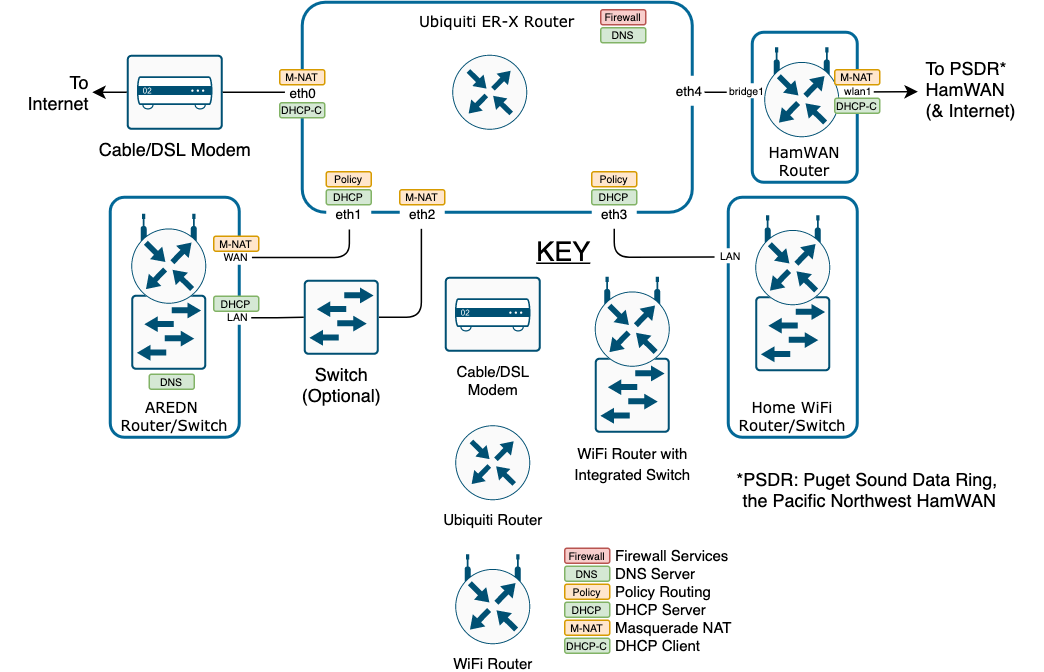
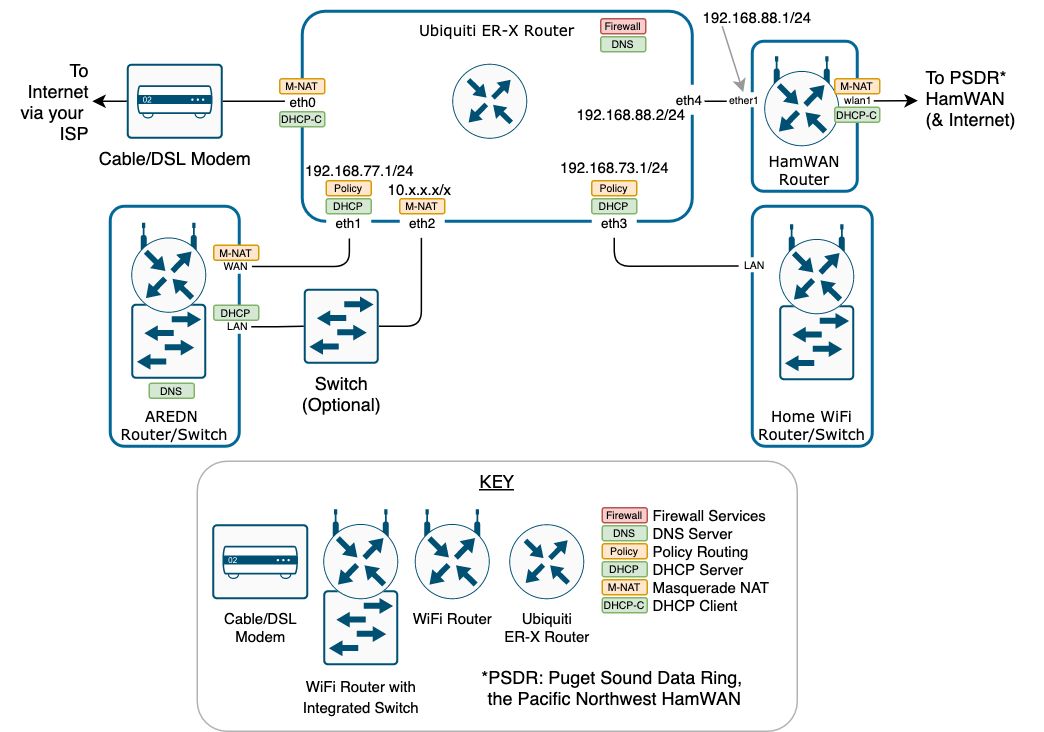
Update integration README

diff --git a/hamwan-arden-home-README.md b/hamwan-arden-home-README.md
@@ -1,6 +1,6 @@
 # Integrating AREDN and HamWAN with your Home Network
 
-VERSION: 20200816
+VERSION: 20210614
 
 AUTHOR:  Steve Magnuson AG7GN
 
@@ -24,11 +24,11 @@ This is a long and somewhat complicated procedure.  To increase your chances of 
 - [Ubiquiti ER-X router](https://www.ui.com/edgemax/edgerouter-x/). Other Ubiquiti EdgeRouters will also work, but may require a more complicated configuration because the number of physical ports varies from model to model. Some models may require an external VLAN-aware ("managed") switch.
 - Garden-variety home router + switch + access point device (likely your current router).
 - Internet service via a cable or DSL modem.
-Note that I'm talking about a MODEM here, not an integrated modem and router provided by your ISP.  We want the Ubiquiti ER-X to do the routing and other related functions. It is possible to integrate an ISP-provided router into this design, but it's more complicated than what I describe here.  Do yourself a favor (and save some money) and return the ISP's router and get a cable modem if you can. Customers who get phone service from the cable company may be stuck with the ISP's router (sorry!).
+Note that I'm talking about a MODEM here, not an integrated modem and router provided by your ISP or perhaps you own.  We want the Ubiquiti ER-X to do the routing and other related functions. It is possible to integrate an ISP-provided router into this design, but it's more complicated than what I describe here.  Do yourself a favor (and save some money) and return the ISP's router and get a plain cable modem if you can. Customers who get phone service from the cable company may be stuck with the ISP's router (sorry!).
 - Familiarity with configuring your home router, HamWAN and AREDN equipment.
 - Cat5 or better ethernet cables of suitable length.
 - PC with a wired ethernet port, and you know how to configure the ethernet port on your PC with a static IP address or an automatically assigned IP (DHCP) address. We'll be doing both in this procedure.
-- If the PC you're going to be using is running Windows, I recommend installing the free SSH application called [Putty](https://www.chiark.greenend.org.uk/~sgtatham/putty/latest.html).  If your PC is running Linux or is a Mac, then SSH is available in the Terminal.
+- If the PC you're going to be using is running Windows, I recommend installing the free SSH client application called [Putty](https://www.chiark.greenend.org.uk/~sgtatham/putty/latest.html). If your PC is running Linux or is a Mac, then SSH is available in the Terminal.
 
 ---
 
@@ -55,7 +55,7 @@ I'm making these assumptions about your current network:
 - You have one or both of these:
 	- A working HamWAN router that is connected to the HamWAN network per the [recommended configuration](http://hamwan.org/Standards/Network%20Engineering/Client%20Node%20Configuration.html), but it is not connected to your home network.
 	- A working AREDN router that is not connected to your home network. See the [AREDN Getting Started Guide](https://arednmesh.readthedocs.io/en/latest/arednGettingStarted/aredn_overview.html) to install the AREDN image on your hardware.
-- You have a new Ubiquiti ER-X that is still at factory default settings. You can [reset it to factory defaults](https://help.ubnt.com/hc/en-us/articles/205202620-EdgeRouter-Reset-to-Factory-Defaults) if necessary.
+- You have a new Ubiquiti ER-X that is still at factory default settings. [Reset it to factory defaults](https://help.ubnt.com/hc/en-us/articles/205202620-EdgeRouter-Reset-to-Factory-Defaults) if necessary.
 
 ---
 
@@ -125,7 +125,7 @@ ER-X `eth4`: `192.168.88.2/24`
 > - Write this MAC address down. You *might* need it later. When you write it down, use the form of the address containing colons. Example: If your MAC is `0026b0f3ecd0`, write  `00:26:b0:f3:ec:d0`.
 > - Close your router's web interface.
 
-### Configure ER-X Router - Part 1
+### A. Configure ER-X Router - Part 1
 
 1. It's likely that when your ER-X router arrives, it'll have an older version of firmware. Using a PC with Internet access, visit the EdgeRouter [downloads](https://www.ui.com/download/edgemax) page. You'll see a lot of files on that page.  We're interested in the most recent version for the `EdgeRouter ER-X/ER-X-SFP/EP-R6/ER-10X` models.  As of this writing, the latest version is `v2.0.8-hotfix.1`. You may see more than one firmware file for the ER-X listed.  Look for the most recent version. Click the corresponding download link and save it to your PC. Use this same PC to configure the ER-X in the following steps, or transfer the downloaded firmware file to the PC you'll be using in the following steps.
 
@@ -295,7 +295,7 @@ ER-X `eth4`: `192.168.88.2/24`
 
 1.	Make sure your PC's ethernet port is set to automatically obtain an IP address.  It should already be set this way.
 		
-### Reconfigure your Current WiFi/Router/Switch (WRS)
+### B. Reconfigure your Current WiFi/Router/Switch (WRS)
 
 *These steps will disable Internet at your QTH!*  
 
@@ -321,7 +321,7 @@ Every WRS manufacturer has a different procedure for what we're about to do, so 
 1. Reboot your WRS.
 1. Disconnect your PC from the WRS.
 
-### Test Home LAN Internet Connectivity
+### C. Test Home LAN Internet Connectivity
 
 Now we'll test your home LAN connection through the ER-X. 
 
@@ -333,7 +333,7 @@ Now we'll test your home LAN connection through the ER-X.
 	
 	- *Don't move on to the next steps until you've verified Internet connectivity!* 		  Troubleshoot as needed to restore Internet service.
 
-### Configure the AREDN Router
+### D. Configure the AREDN Router
 
 Your PC should still be in "Configure IP address automatically" mode at this stage.
 
@@ -399,7 +399,7 @@ Your PC should still be in "Configure IP address automatically" mode at this sta
 
 	- *Don't move on to the next steps until you've verified Internet connectivity!* 		  Troubleshoot as needed to restore Internet service.
 	
-### Configure the HamWAN router
+### E. Configure the HamWAN router
 
 Only 2 additional commands are needed in the HamWAN router. These commands tell the HamWAN router about the IP address subnets that we're using on our home network and our AREDN router's WAN and that those subnets are reachable via the ER-X's `eth4` port, which has IP address `192.168.88.2`.
 
@@ -421,7 +421,7 @@ Only 2 additional commands are needed in the HamWAN router. These commands tell 
 1. Unplug your PC from your HamWAN router's ethernet port and leave your PC disconnected for now.
 1. Connect an ethernet cable between the ER-X `eth4` port and the ethernet port of your HamWAN router.
 
-### Configure ER-X Router - Part 2
+### F. Configure ER-X Router - Part 2
 
 We'll add to the DNS server configuration to enable name resolution of AREDN devices and we'll enable masquerade NAT on the AREDN LAN interface. Enabling masquerade NAT will give the AREDN router the illusion that the packets are coming from a device on it's own LAN when in reality they are coming from a device on your home network. The NAT feature plus AREDN name resolution will allow any of your home LAN devices to access any AREDN devices by name or IP address.
 
@@ -457,7 +457,7 @@ Remember that table you made in the [Configure AREDN Router - Part 1](#configure
 
 Standard IP routing uses the destination IP address as the criteria to determine where to send IP packets. The router maintains a table of destination IP networks for this purpose.  This is called the main routing table. We're going to implement Policy Routing so we can use other criteria to tell the router where to send certain packets.  We'll create a new routing table that our policies can use to forward packets.  Policies can selectively use either the main table or our new table depending on the criteria we define.
 
-1. Back in the ER-X CLI, set up a new routing table (we'll call it table `88`) just for HamWAN. `0.0.0.0/0` means "all networks". This is called a [default route](https://en.wikipedia.org/wiki/Default_route).  If no other route in the routing table matches the destination IP address, then the router uses the default route to forward the packet.  Routing table 88's default route will point to the HamWAN router.
+8. Back in the ER-X CLI, set up a new routing table (we'll call it table `88`) just for HamWAN. `0.0.0.0/0` means "all networks". This is called a [default route](https://en.wikipedia.org/wiki/Default_route).  If no other route in the routing table matches the destination IP address, then the router uses the default route to forward the packet.  Routing table 88's default route will point to the HamWAN router.
 
 		set protocols static table 88 route 0.0.0.0/0 next-hop 192.168.88.1
 		
@@ -532,7 +532,7 @@ Standard IP routing uses the destination IP address as the criteria to determine
 
 After running the wizard earlier, the ER-X firewall is configured such that all traffic inbound on the Internet facing interface `eth0` is dropped unless it is in reply to traffic sent by a device on our AREDN or Home LANs. Traffic arriving on `eth0` that is in reply to traffic we originated from our inside devices is called "established and related".  The firewall keeps track of all of the conversations our devices are having and it knows which IP address initiated each conversation.  If our inside device initiates a conversation, the firewall assumes that any replies coming in from the Internet related to that conversation are OK and are allowed to pass. When you are on a PC on your home LAN and open a web browser and connect to your bank's website, for example, your PC *initiated* that conversation with your bank's website.  From then on, any packets from your bank's website to your PC that are part of that conversation ('established and related') are allowed from the Internet.  Note that the firewall rules below have numbers.  Those numbers are used to tell the firewall the order in which to evaluate the rules.  Firewall rule order is important.
 
-1.	Make a network group of the private IP address defined in [RFC1918](https://tools.ietf.org/html/rfc1918).  All of our inside networks, as well as AREDN networks, are in these address ranges.
+17.	Make a network group of the private IP address defined in [RFC1918](https://tools.ietf.org/html/rfc1918).  All of our inside networks, as well as AREDN networks, are in these address ranges.
 
 		set firewall group network-group RFC1918_Nets description 'Private IP Addresses'
 		set firewall group network-group RFC1918_Nets network 10.0.0.0/8
@@ -560,7 +560,7 @@ After running the wizard earlier, the ER-X firewall is configured such that all 
 
 		set interfaces ethernet eth1 firewall in name AREDN_WAN_IN
 		
-1. The previous steps took care of traffic arriving on `eth1` and destined for some other network.  Now we need to add some protection for the router itself.  All traffic destined for the router itself from the AREDN WAN is dropped unless it is in reply to traffic originating from the ER-X.
+1. The previous steps took care of traffic arriving on `eth1` and destined for some other network.  Now we need to add some protection for the router itself.  All traffic destined for the router itself from the AREDN WAN is dropped unless it is in reply to traffic originating from the ER-X. Also allow the AREDN router to ping the ER-X's AREDN WAN interface.
 
 		set firewall name AREDN_WAN_LOCAL default-action drop
 		set firewall name AREDN_WAN_LOCAL description 'Established and Related'
@@ -571,6 +571,11 @@ After running the wizard earlier, the ER-X firewall is configured such that all 
 		set firewall name AREDN_WAN_LOCAL rule 10 state invalid disable
 		set firewall name AREDN_WAN_LOCAL rule 10 state new disable
 		set firewall name AREDN_WAN_LOCAL rule 10 state related enable
+		set firewall name AREDN_WAN_LOCAL rule 11 action accept
+		set firewall name AREDN_WAN_LOCAL rule 11 description 'ICMP Echo'
+		set firewall name AREDN_WAN_LOCAL rule 11 icmp type-name echo-request
+		set firewall name AREDN_WAN_LOCAL rule 11 log disable
+		set firewall name AREDN_WAN_LOCAL rule 11 protocol icmp
 		set interfaces ethernet eth1 firewall local name AREDN_WAN_LOCAL
 		
 1. Let's restrict traffic inbound through the ER-X on `eth2`, the AREDN LAN port, to replies to traffic we initiated from our Home LAN:
@@ -586,7 +591,7 @@ After running the wizard earlier, the ER-X firewall is configured such that all 
 		set firewall name AREDN_LAN_IN rule 10 state related enable
 		set interfaces ethernet eth2 firewall in name AREDN_LAN_IN
 		
-1. Do the same for traffic destined for the router itself from the AREDN LAN: Restrict inbound traffic to only conversations that were initiated by the router.
+1. Do the same for traffic destined for the router itself from the AREDN LAN: Restrict inbound traffic to only conversations that were initiated by the router plus allow AREDN LAN devices to ping the ER-X AREDN LAN interface (eth2).
 
 		set firewall name AREDN_LAN_LOCAL default-action drop
 		set firewall name AREDN_LAN_LOCAL rule 10 action accept
@@ -597,6 +602,11 @@ After running the wizard earlier, the ER-X firewall is configured such that all 
 		set firewall name AREDN_LAN_LOCAL rule 10 state invalid disable
 		set firewall name AREDN_LAN_LOCAL rule 10 state new disable
 		set firewall name AREDN_LAN_LOCAL rule 10 state related enable
+		set firewall name AREDN_LAN_LOCAL rule 11 action accept
+		set firewall name AREDN_LAN_LOCAL rule 11 description 'ICMP Echo'
+		set firewall name AREDN_LAN_LOCAL rule 11 icmp type-name echo-request
+		set firewall name AREDN_LAN_LOCAL rule 11 log disable
+		set firewall name AREDN_LAN_LOCAL rule 11 protocol icmp
 		set interfaces ethernet eth2 firewall local name AREDN_LAN_LOCAL
 
 1. Finally, let's apply the same rules to the HamWAN interface, and add some rules that will allow access to any AREDN services we want to make available on HamWAN.
@@ -621,6 +631,8 @@ After running the wizard earlier, the ER-X firewall is configured such that all 
 		
 1. Add rules to protect the firewall from HamWAN.
 
+	Allow already established traffic to return via HamWAN (rule 10) and allow the HamWAN router to ping the ER-X (rule 11).
+
 		set firewall name HAMWAN_LOCAL default-action drop
 		set firewall name HAMWAN_LOCAL rule 10 action accept
 		set firewall name HAMWAN_LOCAL rule 10 description 'Established and Related'
@@ -630,6 +642,11 @@ After running the wizard earlier, the ER-X firewall is configured such that all 
 		set firewall name HAMWAN_LOCAL rule 10 state invalid disable
 		set firewall name HAMWAN_LOCAL rule 10 state new disable
 		set firewall name HAMWAN_LOCAL rule 10 state related enable
+		set firewall name HAMWAN_LOCAL rule 11 action accept
+		set firewall name HAMWAN_LOCAL rule 11 description 'ICMP Echo'
+		set firewall name HAMWAN_LOCAL rule 11 icmp type-name echo-request
+		set firewall name HAMWAN_LOCAL rule 11 log disable
+		set firewall name HAMWAN_LOCAL rule 11 protocol icmp
 		set interfaces ethernet eth4 firewall local name HAMWAN_LOCAL
 		
 1. Save your changes and exit configure mode
@@ -639,6 +656,16 @@ After running the wizard earlier, the ER-X firewall is configured such that all 
 1. Why no firewall rules on our Home LAN interface?  You can add some if you like.  Generally, we trust the Home LAN.  By default, in the absence of any rules we create, all traffic is allowed. We have rules on our 3 WAN interfaces: ISP on `eth0`, AREDN WAN on `eth1` and HAMWAN on `eth4` that prevents unsolicited inbound traffic from untrusted networks. Likewise, we don't allow any unsolicited traffic arriving from the AREDN LAN port.
 
 	Your level of paranoia dictates whether you want to add more rules and perhaps some logging.
+	
+### G. Backup/Restore your Configuration
+
+There are multiple ways to do this. The easiest way is using the ER-X's web interface.
+
+1. Open the ER-X web interface and log in.
+1. Locate and click the __System__ button at the bottom of the web page.
+1. Scroll down until you see __Configuration Management & Device Maintenance__, then click the __Download__ button under __Backup Up Config__. Follow the prompts to save the backup file to your PC.
+
+Restoring the configuration is easy: Just click __Upload a file__ under __Restore Config__ in that same __Configuration Management & Device Maintenance__ section.
 
 You're DONE! Enjoy your new networks. 
 
@@ -679,7 +706,7 @@ If you use the default configuration provided by HamWAN support, it will have th
 			add action=drop chain=input comment="drop input invalid" connection-state=invalid
 			add action=accept chain=input comment="accept input ICMP" protocol=icmp
 			add action=accept chain=input comment="accept input from HamWAN" connection-state=new in-interface=wlan1 src-address-list=HamWAN
-			add action=drop chain=input comment="drop input not coming from LAN" in-interface=!bridgeLocal
+			add action=drop chain=input comment="drop input not coming from LAN" in-interface=!ether1
 			
 	- Create a forward chain that filters traffic *through* the HamWAN router. This includes a rule that allows for a future AREDN Tunnel Server should you want to set one up:
 	
@@ -723,7 +750,7 @@ You can enable the Tunnel Server feature on your AREDN Node, which allows other 
 	
 			/ip firewall nat	
 			add action=dst-nat chain=dstnat comment="AREDN Tunnel Server" dst-port=5525 in-interface=wlan1 protocol=tcp to-addresses=192.168.77.2 to-ports=5525
-			.. .. .. quit
+			/quit
 			
 	- Configure additional firewall rules on your HamWAN router. See previous section "(Optional) Add Firewall Rules to your HamWAN Router" for instructions.
 	- Exit your HamWAN Router
@@ -832,7 +859,7 @@ How are you going to remember all of these IP addresses? Use names instead by ad
 
 - To create a DHCP reservation:
 
-	1. Open the web interface of your ER-X.
+	1. Open and log in to the web interface of your ER-X.
 
 	1. Click the __Services__ tab.
 
